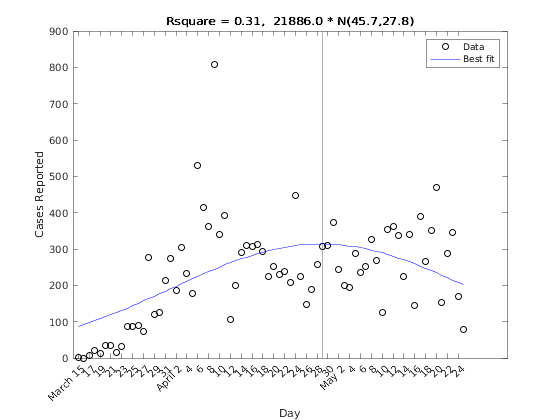
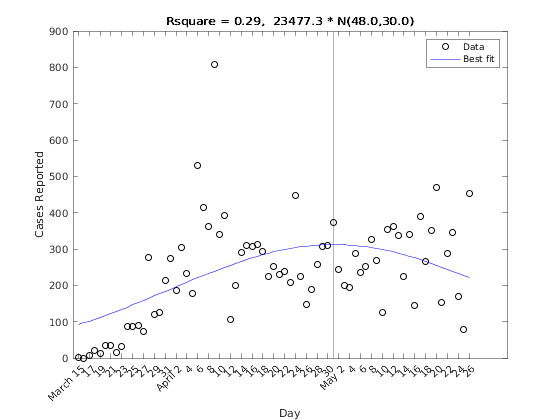
daily update

diff --git a/docs/bokeh/flowers.html b/docs/bokeh/flowers.html
@@ -34,14 +34,14 @@
           
           
             
-              <div class="bk-root" id="12827406-76da-4bcd-a24b-14f48ae7c500" data-root-id="1002"></div>
+              <div class="bk-root" id="36534195-cbc2-4fbf-aefe-63ea9be81e84" data-root-id="1002"></div>
             
           
         
       
       
         <script type="application/json" id="1149">
[2 lines of base64/hex data omitted]
         </script>
         <script type="text/javascript">
           (function() {
@@ -51,7 +51,7 @@
                   function embed_document(root) {
                     
                   var docs_json = document.getElementById('1149').textContent;
-                  var render_items = [{"docid":"13f826bf-2a93-4878-a422-421440ce125c","root_ids":["1002"],"roots":{"1002":"12827406-76da-4bcd-a24b-14f48ae7c500"}}];
+                  var render_items = [{"docid":"e67cdd03-e338-4df7-b35b-40f252fa0d81","root_ids":["1002"],"roots":{"1002":"36534195-cbc2-4fbf-aefe-63ea9be81e84"}}];
                   root.Bokeh.embed.embed_items(docs_json, render_items);
                 
                   }

diff --git a/docs/covidcurvefit.html b/docs/covidcurvefit.html
@@ -6,7 +6,7 @@
    <!--
 This HTML was auto-generated from MATLAB code.
 To make changes, update the MATLAB code and republish this document.
-      --><title>Gaussian curve fit to local covid-19 data</title><meta name="generator" content="MATLAB 9.6"><link rel="schema.DC" href="http://purl.org/dc/elements/1.1/"><meta name="DC.date" content="2020-05-26"><meta name="DC.source" content="covidcurvefit.m"><style type="text/css">
+      --><title>Gaussian curve fit to local covid-19 data</title><meta name="generator" content="MATLAB 9.6"><link rel="schema.DC" href="http://purl.org/dc/elements/1.1/"><meta name="DC.date" content="2020-05-27"><meta name="DC.source" content="covidcurvefit.m"><style type="text/css">
 html,body,div,span,applet,object,iframe,h1,h2,h3,h4,h5,h6,p,blockquote,pre,a,abbr,acronym,address,big,cite,code,del,dfn,em,font,img,ins,kbd,q,s,samp,small,strike,strong,sub,sup,tt,var,b,u,i,center,dl,dt,dd,ol,ul,li,fieldset,form,label,legend,table,caption,tbody,tfoot,thead,tr,th,td{margin:0;padding:0;border:0;outline:0;font-size:100%;vertical-align:baseline;background:transparent}body{line-height:1}ol,ul{list-style:none}blockquote,q{quotes:none}blockquote:before,blockquote:after,q:before,q:after{content:'';content:none}:focus{outine:0}ins{text-decoration:none}del{text-decoration:line-through}table{border-collapse:collapse;border-spacing:0}
 
 html { min-height:100%; margin-bottom:1px; }
@@ -81,7 +81,7 @@ ans =
 
   datetime
 
-   26-May-2020 07:24:07
+   27-May-2020 07:24:44
 
 Warning: Table variable names were modified to make them valid MATLAB
 identifiers. The original names are saved in the VariableDescriptions property. 
